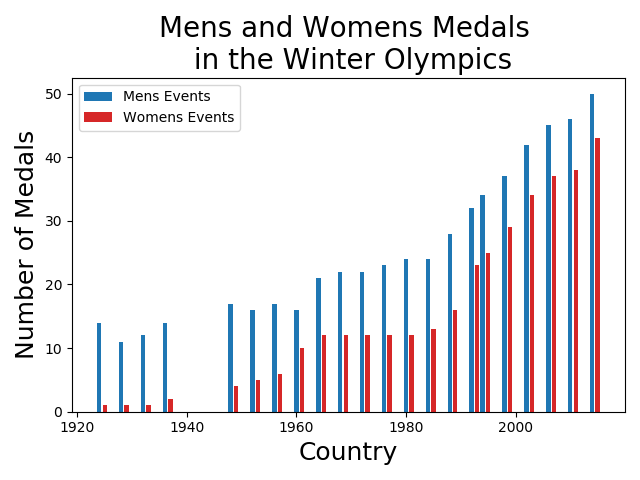
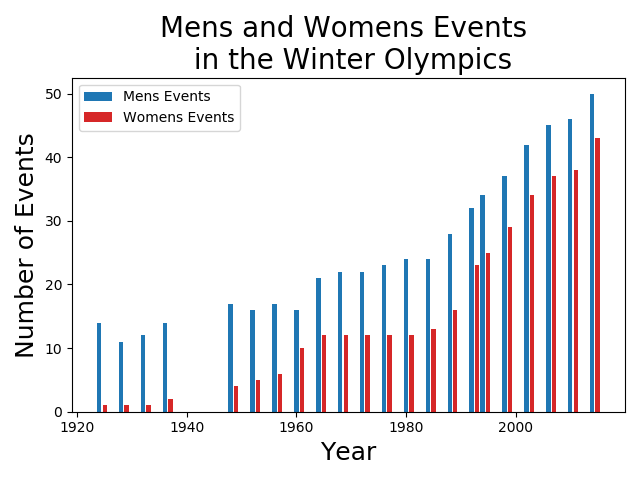
finish winter olympic medal correlations

Changed region(s): [[0.25, 0.0312, 0.8438, 0.0938], [0.0, 0.2812, 0.0625, 0.75], [0.4688, 0.9062, 0.625, 0.9688]]

diff --git a/src/winter_medals.py b/src/winter_medals.py
@@ -69,21 +69,24 @@ if __name__ == '__main__':
     '''
     Plots - add more to functions, less repetative here
     ---------------------------------------------------
+    
 
     year = df_gender_by_year_no_mixed.index
     y = df_gender_by_year_no_mixed['%_womens_events']
     ax = percent_plot(year, y, color='tab:red', label='Excluding Mixed Events')
-    plt.savefig('../images/no-mix-year-plot.png')
+    # plt.savefig('../images/no-mix-year-plot.png')
 
     y2 = df_gender_by_year_with_mixed['%_womens_events']
     ax2 = percent_plot(year, y2, color='tab:red', label='Including Mixed Events')
-    plt.savefig('../images/mix-year-plot.png')
-
-    y3_a = df_gender_by_year_no_mixed['mens_events'] 
-    y3_b = df_gender_by_year_no_mixed['womens_events']
+    # plt.savefig('../images/mix-year-plot.png')
+  
+    year = winter_dataframes.annual_medals_df.index
+    y3_a = winter_dataframes.annual_medals_df['mens_events'] 
+    y3_b = winter_dataframes.annual_medals_df['womens_events']
     ax3 = gender_counts_plot(year, y3_a, color='tab:blue', label='Mens Events')
     ax3 = gender_counts_plot(year+1, y3_b, ax3, color='tab:red', label='Womens Events')
-    plt.savefig('../images/no-mix-count-year-plot.png')
+    plt.tight_layout()
+    # plt.savefig('../images/no-mix-count-year-plot.png')
 
     fig4, ax4 = plt.subplots(1, figsize=(12,6))
     y4_a = df_gender_by_year_with_mixed['mens_events'] 
@@ -91,7 +94,7 @@ if __name__ == '__main__':
     y4_c = df_gender_by_year_with_mixed['mixed_events']
     ax3 = gender_counts_plot(year-0.7, y4_a, ax4, color='tab:blue', label='Mens Events', width=0.7)
     ax3 = gender_counts_plot(year, y4_b, ax4, color='tab:red', label='Womens Events', width=0.7)
-    ax3 = gender_counts_plot(year+0.7, y4_c, ax4 color='tab:purple', label='Mixed Events', width=0.7)
+    ax3 = gender_counts_plot(year+0.7, y4_c, ax4, color='tab:purple', label='Mixed Events', width=0.7)
     plt.savefig('../images/mix-count-year-plot.png')
     
     fig5, ax5 = plt.subplots(1, figsize=(12,6))
@@ -104,7 +107,7 @@ if __name__ == '__main__':
     ax5.set_xticks(x)
     ax5.set_xticklabels(country)
     plt.xticks(rotation=45, ha='right')
-    plt.savefig('../images/no-mix-country-plot-1993.png')
+    # plt.savefig('../images/no-mix-country-plot-1993.png')
     
     fig6, ax6 = plt.subplots(1)
     country = df_medals_50_with_mixed.index
@@ -118,7 +121,7 @@ if __name__ == '__main__':
     ax6.set_xticks(x)
     ax6.set_xticklabels(country)
     plt.xticks(rotation=45, ha='right')
-    plt.savefig('../images/mix-country-plot.png')
+    # plt.savefig('../images/mix-country-plot.png')
 
     '''
 
@@ -129,14 +132,46 @@ if __name__ == '__main__':
     files = ['usa', 'germany', 'canada', 'austria', 'norway', 'russia',
             'netherlands', 'switzerland', 'italy', 'france', 'sweden']
     years = [2014, 2016]
-    multi_country_hdi_df = CleanDataFrame(files, female_indicator_codes, years).df
-    multi_2014_hdi_df = multi_country_hdi_df[multi_country_hdi_df['#date+year'] == 2014]
-    corr_df = pd.merge(multi_2014_hdi_df, 
+    multi_country_hdi = CleanDataFrame(files, female_indicator_codes, years)
+    multi_2014_hdi_df = multi_country_hdi.df[multi_country_hdi.df['#date+year'] == 2014]
+    merge_df = pd.merge(multi_2014_hdi_df, 
                         winter_dataframes.country_medals_df['%_womens_medals'], 
                                                             left_on='#country+name', 
                                                             right_index=True)
-    corr_df.drop(49006, inplace=True, axis=1)
-    corr_df['rand'] = np.random.rand(len(corr_df.index))
+    merge_df.drop(49006, inplace=True, axis=1)
+    # merge_df['rand'] = np.random.rand(len(merge_df.index))
+    corr_df = merge_df.corr()['%_womens_medals']
+    abrev_corr_df = corr_df.iloc[[1,2,6,7,11]]
+    sorted_df = abrev_corr_df.abs().sort_values(ascending = False)
+    y = abrev_corr_df[sorted_df.index]
+    x = np.arange(len(y))
+    labels_num = sorted_df.index
+    labels_txt = ['Female Gross\nNational Income', 'Mean Female\nSchooling', 'Women in\nParlament',
+                 'Female HDI', ' % Females with\nSecondary Ed']
     
-    print(corr_df.corr()['%_womens_medals'].to_markdown())
+    fig, ax = plt.subplots(1, figsize=(12,6))
+    ax.bar(x,y, color='tab:red')
+    ax.set_xticklabels(labels_txt, fontsize=16)
+    ax.set_xticks(x)
+    ax.axhline(y=0)
+    ax.set_xlabel('Human Development Indices', fontsize=18)
+    ax.set_ylabel('Correlation with Womens Medals', fontsize=18)
+    ax.set_title('Correlation between Womens Winter Olympic Medals\nand\
+ Human Development Index', fontsize=20)
+    plt.tight_layout()
+    plt.savefig('../images/HDI_correlations.png')
+    
+
+    fig, ax = plt.subplots(1)
+    x = merge_df['%_womens_medals']
+    y = merge_df[labels_num[0]]
+    ax.scatter(x,y, color='tab:red')
+    trendline = np.polyfit(x, y, 1)
+    trendline_formula = np.poly1d(trendline)
+    ax.set_ylabel('GNI (Female)', fontsize=18)
+    ax.set_xlabel('% Winter Olympic Medals', fontsize=18)
+    ax.set_title('Correlation Between Female Medals and \n Estimated Gross National Income', fontsize=20)
+    ax.plot(x, trendline_formula(x), 'r-')
+    plt.tight_layout()
+    # plt.savefig('../images/GNI_scatter.png')
     

diff --git a/src/hdi.py b/src/hdi.py
@@ -11,6 +11,7 @@ class CleanDataFrame(object):
         self.files = file_list
         self.codes = codes_list
         self.years = years_list
+        self.indicator_dict = None
         self.df = self.compile()
 
     def create_country_df(self, file):
@@ -20,6 +21,8 @@ class CleanDataFrame(object):
                                 index=['#country+name', '#date+year'], 
                                 columns='#indicator+code', 
                                 aggfunc=np.sum)
+        if self.indicator_dict == None:
+            self.create_dict(df)
         women_df = table[self.codes]
         women_years_df = women_df.loc[(country, self.years),]
         women_years_df.reset_index(inplace=True)
@@ -35,6 +38,8 @@ class CleanDataFrame(object):
                 self.df = multi_df.append(new_df, ignore_index=True)
         return self.df
 
+    def create_dict(self, df):
+        self.indicator_dict = df.set_index('#indicator+code').to_dict()['#indicator+name']
 
 if __name__ == '__main__':
     female_indicator_codes = [23906, 24106, 48706, 49006, 120606, 

diff --git a/src/medals_plots.py b/src/medals_plots.py
@@ -18,10 +18,10 @@ def gender_counts_plot(x, y, ax=None, **plt_kwargs):
     if ax is None:
         fig, ax = plt.subplots(1)
     ax.bar(x, y, **plt_kwargs)
-    ax.set_title('Mens and Womens Medals \n in the Winter Olympics',
+    ax.set_title('Mens and Womens Events \n in the Winter Olympics',
                     fontsize=20)
-    ax.set_xlabel('Country', fontsize=18)
-    ax.set_ylabel('Number of Medals', fontsize=18)
+    ax.set_xlabel('Year', fontsize=18)
+    ax.set_ylabel('Number of Events', fontsize=18)
     ax.legend()
     return ax
 

diff --git a/README.md b/README.md
@@ -60,24 +60,14 @@ This plot was abbreviated to only include countries with at least 50 medals sinc
 
 "The Human Development Index (HDI) was created to emphasize that expanding human choices should be the ultimate criteria for assessing development results. Economic growth is a means to that process but is not an end in itself." - hdr.undp.org
 
-HDIs are released by the United Nations Development Programme on a nearly annual basis and include information on a multitude of different human factors. The HDI for the 11 countries with at least 50 medals in the Winter Olympics from 1994 to 2014 were collected and reduced to only include the indices with the words 'female' or 'woman' in the name. A few of these indices were dropped because they did not include data for many of the countries, which left 18 HDI indices. Each of these indices were compared to the percent of medal's won by women in the 11 countries to determine correlations. A random number generator was used to determine what correlation was better than random, and thus worth investigating.
+HDIs are released by the United Nations Development Programme on a nearly annual basis and include information on a multitude of different human factors. The HDI for the 11 countries with at least 50 medals in the Winter Olympics from 1994 to 2014 were collected and reduced to only include the indices with the words 'female' or 'woman' in the name. A few of these indices were dropped because they did not include data for many of the countries, which left 18 HDI indices. Each of these indices were compared to the percent of medal's won by women in the 11 countries to determine correlations. 
 
-|                 |   %_womens_medals |
-|:----------------|------------------:|
-| #date+year      |      nan          |
-| 23906           |       -0.00219968 |
-| 24106           |        0.175806   |
-| 48706           |       -0.108715   |
-| 120606          |       -0.173652   |
-| 123306          |       -0.0889399  |
-| **123506**          |       **-0.438787**   |
-| 136906          |       -0.14169    |
-| **169706**          |       **-0.247335**   |
-| 169806          |       -0.129153   |
-| 175106          |       -0.0650042  |
-| 31706           |        0.143553   |
-| 36806           |        0.11536    |
-| %_womens_medals |        1          |
-| **rand**            |        **0.20735**    |
 
-There were two indices that had a correlation above the random. 123506: Estimated gross national income per capita, female and 169706: Total unemployment rate (female to male ratio). 
+![img](images/HDI_correlations.png)
+
+Most of the HDI indices showed little to no correlation with percent of winter olympic medals won by females. The HDI with the highest correlation was the Estimated Gross National Income per capita, female and this was, surprisingly, a negative correlation. The GNI and percent women's medals can be seen in the plot below. 
+
+![img](images/GNI_scatter.png)
+
+## Further Analysis
+The resluts of the correlations with HDI indices was surprising. I would like to continue investigating these correlations by including Summer Olympics in the analysis as well as creating evaluations for female atheletes instead of only female medalists. 
